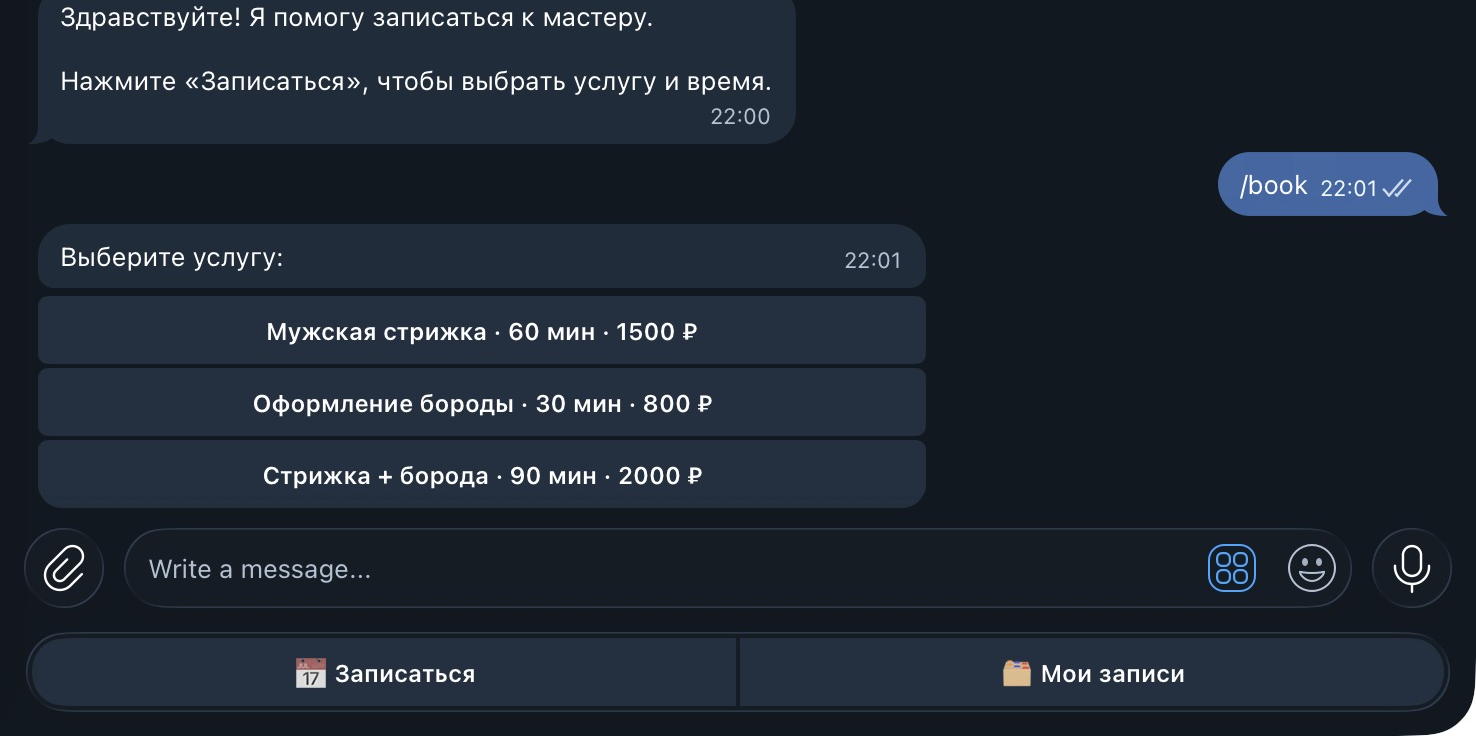
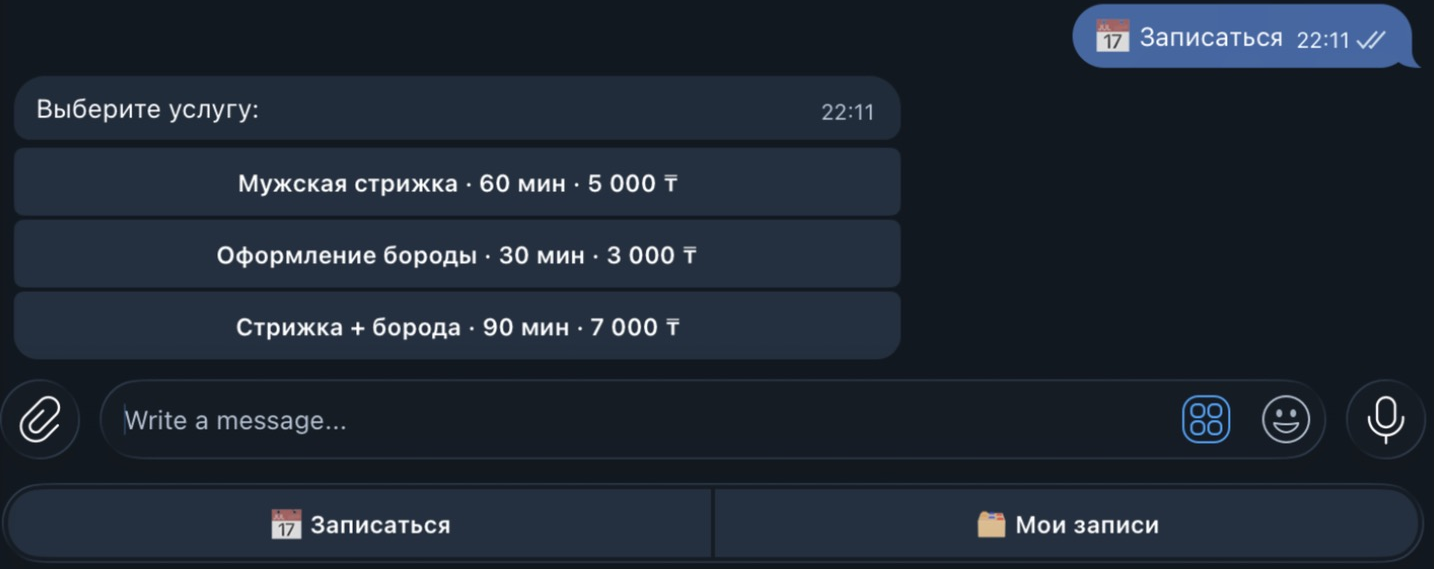
feat: настройки под Казахстан — тенге и время Алматы
Валюта вынесена в CURRENCY (по умолчанию ₸), цены форматируются
с разделителем тысяч. Часовой пояс по умолчанию Asia/Almaty.
Скриншот услуг переснят с ценами в тенге, README обновлён.

diff --git a/bot/texts.py b/bot/texts.py
@@ -5,7 +5,7 @@ from datetime import date, datetime
 from html import escape
 
 from bot.db import Booking
-from bot.schedule import Service, get_service
+from bot.schedule import CURRENCY, Service, get_service
 
 WEEKDAYS = ("Пн", "Вт", "Ср", "Чт", "Пт", "Сб", "Вс")
 
@@ -50,14 +50,19 @@ def service_title(code: str) -> str:
     return service.title if service else code
 
 
+def format_price(amount: int) -> str:
+    """5000 → «5 000 ₸»: пробел между тысячами, как принято в РК и РФ."""
+    return f"{amount:,}".replace(",", " ") + f" {CURRENCY}"
+
+
 def service_button(service: Service) -> str:
-    return f"{service.title} · {service.duration_min} мин · {service.price} ₽"
+    return f"{service.title} · {service.duration_min} мин · {format_price(service.price)}"
 
 
 def confirm_summary(service: Service, starts_at: datetime, name: str, phone: str) -> str:
     return (
         "<b>Проверьте запись</b>\n\n"
-        f"Услуга: {escape(service.title)} ({service.price} ₽)\n"
+        f"Услуга: {escape(service.title)} ({format_price(service.price)})\n"
         f"Когда: {format_moment(starts_at)}\n"
         f"Имя: {escape(name)}\n"
         f"Телефон: {phone}\n\n"

diff --git a/bot/schedule.py b/bot/schedule.py
@@ -16,14 +16,15 @@ class Service:
     code: str  # короткий латинский идентификатор, уходит в callback-кнопки
     title: str
     duration_min: int
-    price: int  # в рублях
+    price: int  # в валюте CURRENCY
 
 
 # ---- Настройки под конкретного мастера -------------------------------------
+CURRENCY = "₸"
 SERVICES: Tuple[Service, ...] = (
-    Service("haircut", "Мужская стрижка", 60, 1500),
-    Service("beard", "Оформление бороды", 30, 800),
-    Service("combo", "Стрижка + борода", 90, 2000),
+    Service("haircut", "Мужская стрижка", 60, 5000),
+    Service("beard", "Оформление бороды", 30, 3000),
+    Service("combo", "Стрижка + борода", 90, 7000),
 )
 WORK_START = time(10, 0)
 WORK_END = time(20, 0)

diff --git a/tests/test_schedule.py b/tests/test_schedule.py
@@ -43,3 +43,10 @@ def test_slots_closer_than_min_lead_are_hidden():
 def test_fully_booked_day_has_no_slots():
     busy = [(datetime(2026, 11, 23, 10, 0), datetime(2026, 11, 23, 20, 0))]
     assert free_slots(MONDAY, 30, busy, EARLY) == []
+
+
+def test_price_is_formatted_with_thousands_and_currency():
+    from bot.texts import format_price
+
+    assert format_price(5000) == f"5 000 {schedule.CURRENCY}"
+    assert format_price(800) == f"800 {schedule.CURRENCY}"

diff --git a/README.md b/README.md
@@ -48,7 +48,7 @@
 |---|---|
 | Несколько мастеров | Салон, где у каждого своё расписание |
 | Выгрузка в Google Таблицы | Смотреть записи и статистику в привычной таблице |
-| Предоплата через ЮKassa | Меньше неявок, деньги сразу на счёте |
+| Предоплата по ссылке Kaspi | Бот отправит ссылку на оплату, мастер подтвердит — меньше неявок |
 | Отзывы после визита | Бот сам попросит оценку и отзыв |
 | Рассылки клиентам | Акции, свободные окна, поздравления |
 
@@ -82,6 +82,7 @@ cp .env.example .env
 | Что | Константа |
 |---|---|
 | Услуги, длительность, цены | `SERVICES` |
+| Валюта (по умолчанию ₸) | `CURRENCY` |
 | Рабочие часы | `WORK_START`, `WORK_END` |
 | Выходные | `DAYS_OFF` |
 | Шаг сетки времени | `SLOT_STEP_MIN` |
@@ -124,5 +125,5 @@ tests/             31 тест, включая сквозной сценарий
 
 - Незавершённое оформление хранится в памяти (`MemoryStorage`) —
   при перезапуске клиенту нужно начать заново. Для продакшена — `RedisStorage`.
-- Телефоны принимаются российские (+7).
+- Телефоны принимаются казахстанские и российские (+7).
 - Одно расписание; несколько мастеров — доработка.
